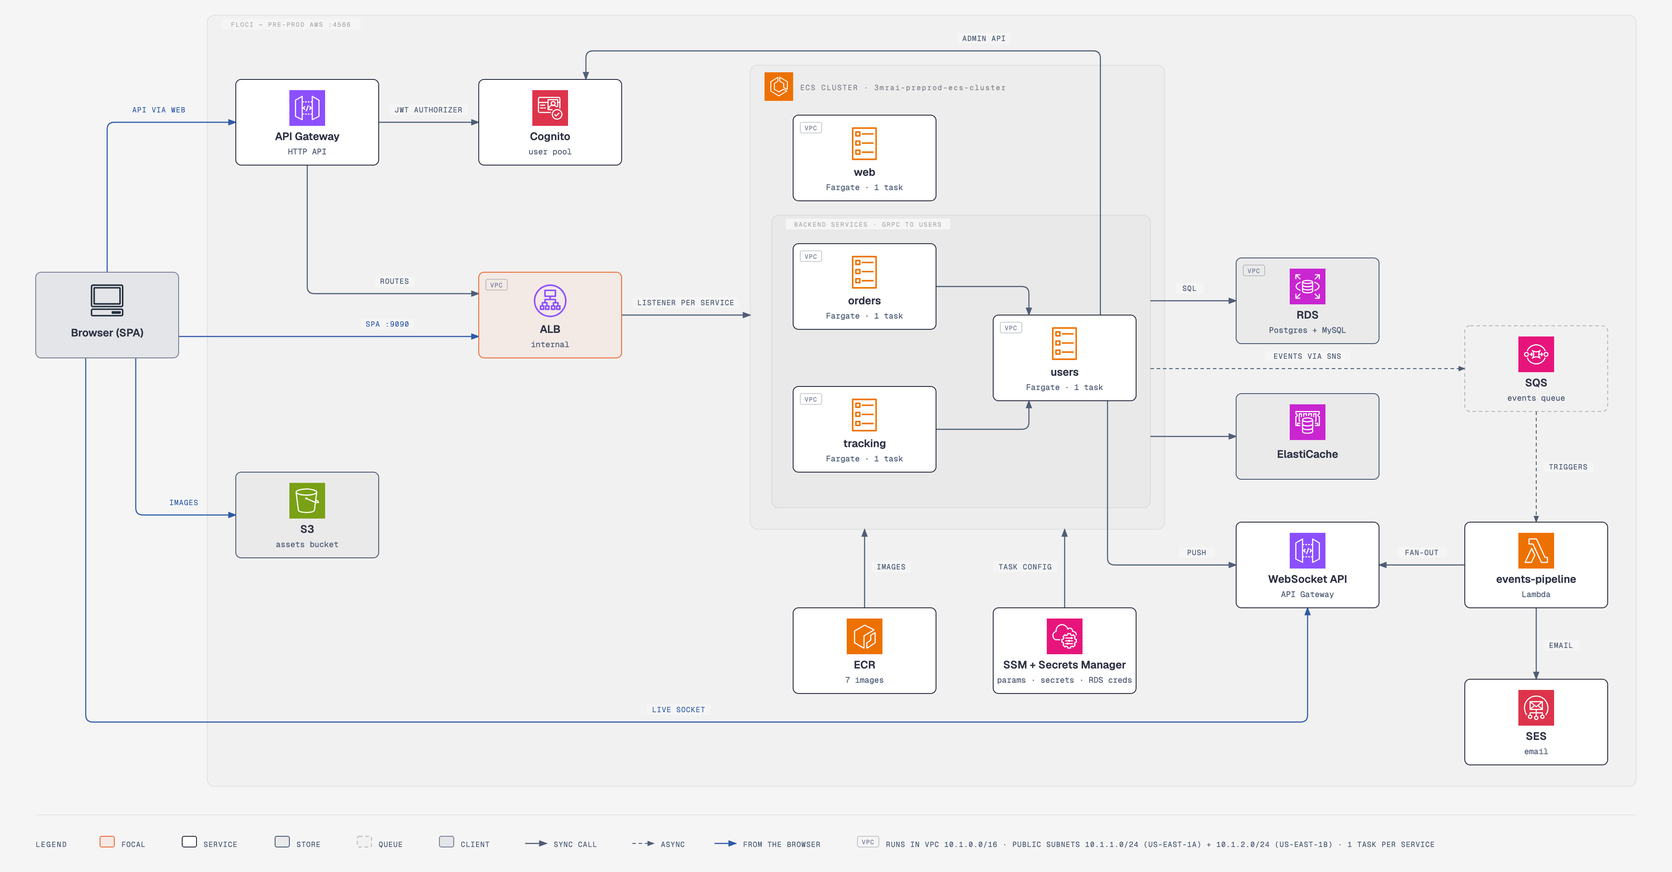
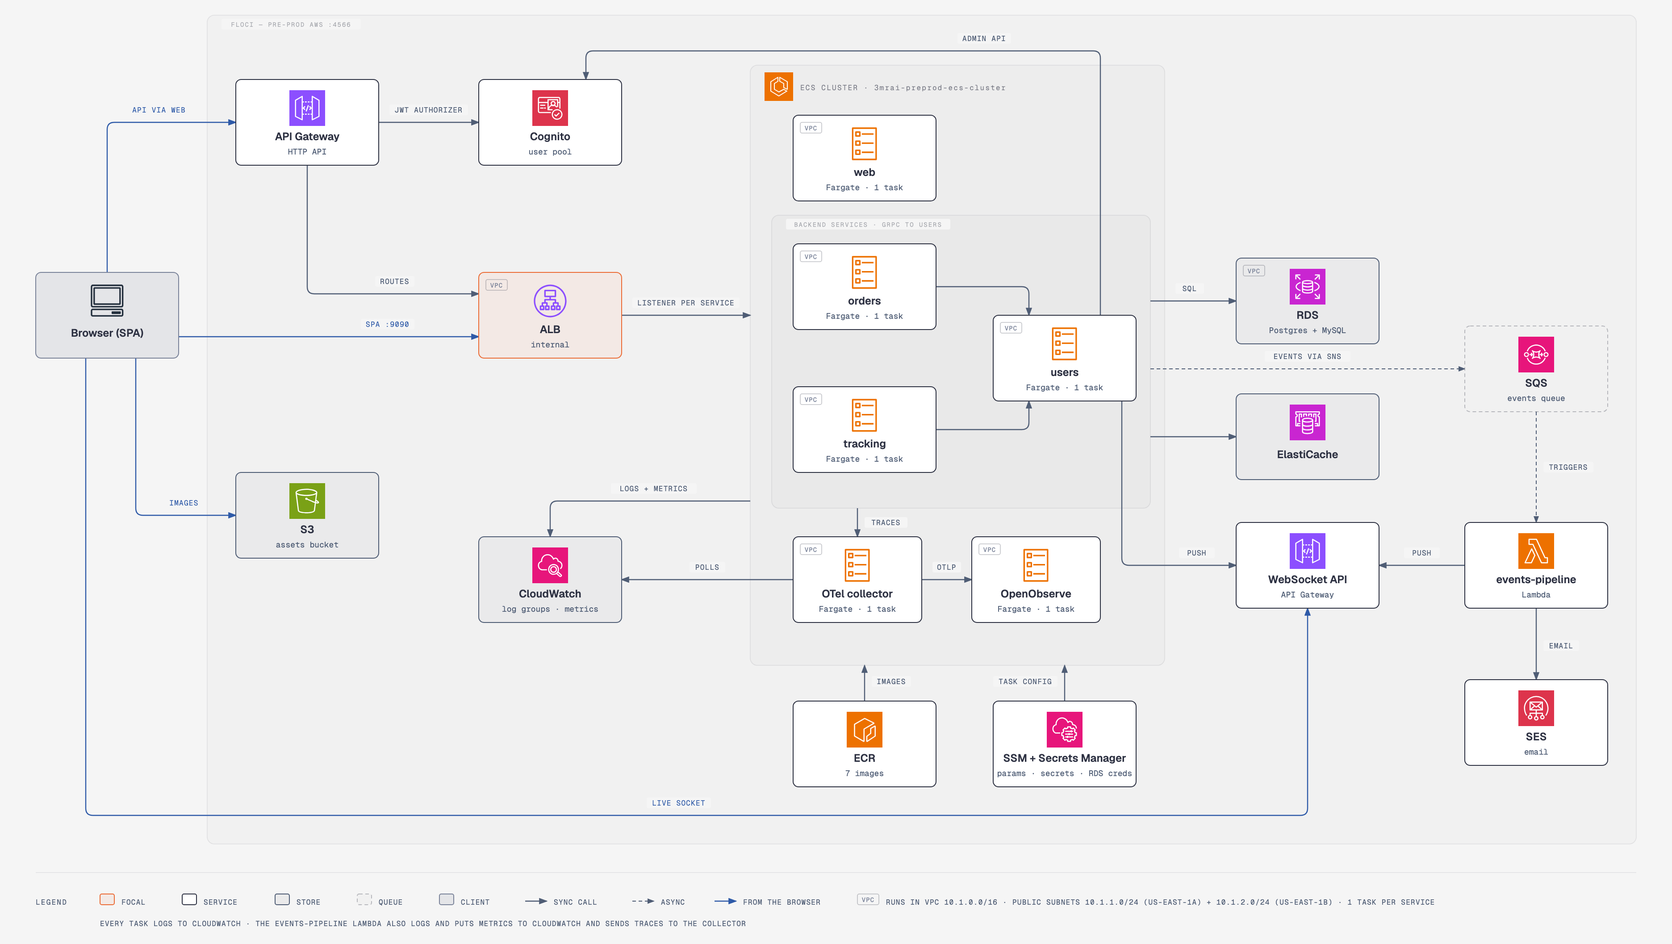
feat(diagrams): add the CloudWatch and OpenObserve telemetry path to the pre-prod view
Show CloudWatch, the OTel collector and OpenObserve on the request-path
view, and label the events-pipeline Lambda's WebSocket edge PUSH in both
pre-prod views.

Spec: docs/superpowers/specs/2026-10-13-diagram-design-migration-design.md

diff --git a/diagrams/src/architecture/architecture-preprod.html b/diagrams/src/architecture/architecture-preprod.html
@@ -65,9 +65,9 @@
     <h1>Pre-prod on Floci — request path</h1>
     <p class="subtitle">One ECS cluster across two AZs: ECS places each Fargate task in either subnet; one ALB listener per service</p>
 
-    <svg viewBox="0 0 1872 976" xmlns="http://www.w3.org/2000/svg" role="img" aria-labelledby="architecture-preprod-title architecture-preprod-desc">
+    <svg viewBox="0 0 1872 1056" xmlns="http://www.w3.org/2000/svg" role="img" aria-labelledby="architecture-preprod-title architecture-preprod-desc">
       <title id="architecture-preprod-title">Pre-prod on Floci — request path</title>
-      <desc id="architecture-preprod-desc">Architecture of the pre-prod environment, where every service runs as an ECS Fargate task on its own Floci: the browser loads the SPA through the ALB and calls API Gateway, which validates JWTs with Cognito and routes to the ALB; the ALB has one listener per ECS service; the orders and tracking tasks call users over gRPC; the backend tasks use RDS and ElastiCache; ECR supplies the images and SSM plus Secrets Manager supply the task config; the browser loads images from the S3 assets bucket and holds a live socket on the API Gateway WebSocket API; the backend tasks publish events through the SNS topic to SQS, which triggers the events-pipeline Lambda that sends email through SES; users and the events-pipeline Lambda push frames to the WebSocket API.</desc>
+      <desc id="architecture-preprod-desc">Architecture of the pre-prod environment, where every service runs as an ECS Fargate task on its own Floci: the browser loads the SPA through the ALB and calls API Gateway, which validates JWTs with Cognito and routes to the ALB; the ALB has one listener per ECS service; the orders and tracking tasks call users over gRPC; the backend tasks use RDS and ElastiCache; ECR supplies the images and SSM plus Secrets Manager supply the task config; the browser loads images from the S3 assets bucket and holds a live socket on the API Gateway WebSocket API; the backend tasks publish events through the SNS topic to SQS, which triggers the events-pipeline Lambda that sends email through SES; users and the events-pipeline Lambda push frames to the WebSocket API; every task ships logs and pushes custom metrics to CloudWatch, the backend tasks send OTLP traces to the OTel collector task, and the collector polls CloudWatch for logs and metrics and exports everything over OTLP to the OpenObserve task.</desc>
       <defs>
         <marker id="arrow" markerWidth="8" markerHeight="6" refX="7" refY="3" orient="auto"><polygon points="0 0, 8 3, 0 6" fill="#4f5d75"/></marker>
         <marker id="arrow-accent" markerWidth="8" markerHeight="6" refX="7" refY="3" orient="auto"><polygon points="0 0, 8 3, 0 6" fill="#eb6c36"/></marker>
@@ -75,10 +75,10 @@
       </defs>
       <rect width="100%" height="100%" fill="#f5f5f5"/>
       <!-- Zones -->
-      <rect x="232" y="16" width="1600" height="864" rx="8" fill="rgba(45,49,66,0.02)" stroke="rgba(45,49,66,0.10)" stroke-width="0.8"/>
+      <rect x="232" y="16" width="1600" height="928" rx="8" fill="rgba(45,49,66,0.02)" stroke="rgba(45,49,66,0.10)" stroke-width="0.8"/>
       <rect x="248" y="20" width="156" height="12" rx="2" fill="#f5f5f5"/>
       <text x="326" y="29" fill="rgba(45,49,66,0.40)" font-size="7" font-family="'Geist Mono', monospace" text-anchor="middle" letter-spacing="0.14em">FLOCI — PRE-PROD AWS :4566</text>
-      <rect x="840" y="72" width="464" height="520" rx="8" fill="rgba(45,49,66,0.02)" stroke="rgba(45,49,66,0.10)" stroke-width="0.8"/>
+      <rect x="840" y="72" width="464" height="672" rx="8" fill="rgba(45,49,66,0.02)" stroke="rgba(45,49,66,0.10)" stroke-width="0.8"/>
       <image href="https://cdn.jsdelivr.net/npm/aws-icons@3.2.0/icons/architecture-service/AmazonElasticContainerService.svg" x="856" y="80" width="32" height="32"/>
       <text x="896" y="100" fill="rgba(45,49,66,0.60)" font-size="8" font-family="'Geist Mono', monospace" letter-spacing="0.14em">ECS CLUSTER · 3mrai-preprod-ecs-cluster</text>
       <rect x="864" y="240" width="424" height="328" rx="8" fill="rgba(45,49,66,0.02)" stroke="rgba(45,49,66,0.10)" stroke-width="0.8"/>
@@ -96,14 +96,18 @@
       <path d="M 1232,352 V 64 Q 1232,56 1224,56 H 664 Q 656,56 656,64 V 88" fill="none" stroke="#4f5d75" stroke-width="1.2" marker-end="url(#arrow)"/>
       <path d="M 1288,336 H 1384" fill="none" stroke="#4f5d75" stroke-width="1.2" marker-end="url(#arrow)"/>
       <path d="M 1288,488 H 1384" fill="none" stroke="#4f5d75" stroke-width="1.2" marker-end="url(#arrow)"/>
-      <path d="M 968,680 V 592" fill="none" stroke="#4f5d75" stroke-width="1.2" marker-end="url(#arrow)"/>
-      <path d="M 1192,680 V 592" fill="none" stroke="#4f5d75" stroke-width="1.2" marker-end="url(#arrow)"/>
-      <path d="M 96,400 V 800 Q 96,808 104,808 H 1456 Q 1464,808 1464,800 V 680" fill="none" stroke="#2e5aa8" stroke-width="1.2" marker-end="url(#arrow-link)"/>
-      <path d="M 1240,448 V 624 Q 1240,632 1248,632 H 1384" fill="none" stroke="#4f5d75" stroke-width="1.2" marker-end="url(#arrow)"/>
+      <path d="M 968,784 V 744" fill="none" stroke="#4f5d75" stroke-width="1.2" marker-end="url(#arrow)"/>
+      <path d="M 1192,784 V 744" fill="none" stroke="#4f5d75" stroke-width="1.2" marker-end="url(#arrow)"/>
+      <path d="M 96,400 V 904 Q 96,912 104,912 H 1456 Q 1464,912 1464,904 V 680" fill="none" stroke="#2e5aa8" stroke-width="1.2" marker-end="url(#arrow-link)"/>
+      <path d="M 1256,448 V 624 Q 1256,632 1264,632 H 1384" fill="none" stroke="#4f5d75" stroke-width="1.2" marker-end="url(#arrow)"/>
       <path d="M 1288,412 H 1640" fill="none" stroke="#4f5d75" stroke-width="1" stroke-dasharray="4,3" marker-end="url(#arrow)"/>
       <path d="M 1720,460 V 584" fill="none" stroke="#4f5d75" stroke-width="1" stroke-dasharray="4,3" marker-end="url(#arrow)"/>
       <path d="M 1640,632 H 1544" fill="none" stroke="#4f5d75" stroke-width="1.2" marker-end="url(#arrow)"/>
       <path d="M 1720,680 V 760" fill="none" stroke="#4f5d75" stroke-width="1.2" marker-end="url(#arrow)"/>
+      <path d="M 840,560 H 624 Q 616,560 616,568 V 600" fill="none" stroke="#4f5d75" stroke-width="1.2" marker-end="url(#arrow)"/>
+      <path d="M 888,648 H 696" fill="none" stroke="#4f5d75" stroke-width="1.2" marker-end="url(#arrow)"/>
+      <path d="M 960,568 V 600" fill="none" stroke="#4f5d75" stroke-width="1.2" marker-end="url(#arrow)"/>
+      <path d="M 1032,648 H 1088" fill="none" stroke="#4f5d75" stroke-width="1.2" marker-end="url(#arrow)"/>
       <!-- Connector labels -->
       <rect x="144" y="116" width="68" height="12" rx="2" fill="#f5f5f5"/>
       <text x="178" y="125" fill="#2e5aa8" font-size="8" font-family="'Geist Mono', monospace" text-anchor="middle" letter-spacing="0.08em">API VIA WEB</text>
@@ -121,22 +125,30 @@
       <text x="1102" y="45" fill="#4f5d75" font-size="8" font-family="'Geist Mono', monospace" text-anchor="middle" letter-spacing="0.08em">ADMIN API</text>
       <rect x="1316" y="316" width="32" height="12" rx="2" fill="#f5f5f5"/>
       <text x="1332" y="325" fill="#4f5d75" font-size="8" font-family="'Geist Mono', monospace" text-anchor="middle" letter-spacing="0.08em">SQL</text>
-      <rect x="976" y="628" width="44" height="12" rx="2" fill="#f5f5f5"/>
-      <text x="998" y="637" fill="#4f5d75" font-size="8" font-family="'Geist Mono', monospace" text-anchor="middle" letter-spacing="0.08em">IMAGES</text>
-      <rect x="1112" y="628" width="72" height="12" rx="2" fill="#f5f5f5"/>
-      <text x="1148" y="637" fill="#4f5d75" font-size="8" font-family="'Geist Mono', monospace" text-anchor="middle" letter-spacing="0.08em">TASK CONFIG</text>
-      <rect x="724" y="788" width="72" height="12" rx="2" fill="#f5f5f5"/>
-      <text x="760" y="797" fill="#2e5aa8" font-size="8" font-family="'Geist Mono', monospace" text-anchor="middle" letter-spacing="0.08em">LIVE SOCKET</text>
+      <rect x="976" y="756" width="44" height="12" rx="2" fill="#f5f5f5"/>
+      <text x="998" y="765" fill="#4f5d75" font-size="8" font-family="'Geist Mono', monospace" text-anchor="middle" letter-spacing="0.08em">IMAGES</text>
+      <rect x="1112" y="756" width="72" height="12" rx="2" fill="#f5f5f5"/>
+      <text x="1148" y="765" fill="#4f5d75" font-size="8" font-family="'Geist Mono', monospace" text-anchor="middle" letter-spacing="0.08em">TASK CONFIG</text>
+      <rect x="724" y="892" width="72" height="12" rx="2" fill="#f5f5f5"/>
+      <text x="760" y="901" fill="#2e5aa8" font-size="8" font-family="'Geist Mono', monospace" text-anchor="middle" letter-spacing="0.08em">LIVE SOCKET</text>
       <rect x="1320" y="612" width="40" height="12" rx="2" fill="#f5f5f5"/>
       <text x="1340" y="621" fill="#4f5d75" font-size="8" font-family="'Geist Mono', monospace" text-anchor="middle" letter-spacing="0.08em">PUSH</text>
       <rect x="1416" y="392" width="96" height="12" rx="2" fill="#f5f5f5"/>
       <text x="1464" y="401" fill="#4f5d75" font-size="8" font-family="'Geist Mono', monospace" text-anchor="middle" letter-spacing="0.08em">EVENTS VIA SNS</text>
       <rect x="1728" y="516" width="56" height="12" rx="2" fill="#f5f5f5"/>
       <text x="1756" y="525" fill="#4f5d75" font-size="8" font-family="'Geist Mono', monospace" text-anchor="middle" letter-spacing="0.08em">TRIGGERS</text>
-      <rect x="1564" y="612" width="56" height="12" rx="2" fill="#f5f5f5"/>
-      <text x="1592" y="621" fill="#4f5d75" font-size="8" font-family="'Geist Mono', monospace" text-anchor="middle" letter-spacing="0.08em">FAN-OUT</text>
+      <rect x="1572" y="612" width="40" height="12" rx="2" fill="#f5f5f5"/>
+      <text x="1592" y="621" fill="#4f5d75" font-size="8" font-family="'Geist Mono', monospace" text-anchor="middle" letter-spacing="0.08em">PUSH</text>
       <rect x="1728" y="716" width="40" height="12" rx="2" fill="#f5f5f5"/>
       <text x="1748" y="725" fill="#4f5d75" font-size="8" font-family="'Geist Mono', monospace" text-anchor="middle" letter-spacing="0.08em">EMAIL</text>
+      <rect x="684" y="540" width="96" height="12" rx="2" fill="#f5f5f5"/>
+      <text x="732" y="549" fill="#4f5d75" font-size="8" font-family="'Geist Mono', monospace" text-anchor="middle" letter-spacing="0.08em">LOGS + METRICS</text>
+      <rect x="772" y="628" width="40" height="12" rx="2" fill="#f5f5f5"/>
+      <text x="792" y="637" fill="#4f5d75" font-size="8" font-family="'Geist Mono', monospace" text-anchor="middle" letter-spacing="0.08em">POLLS</text>
+      <rect x="968" y="578" width="48" height="12" rx="2" fill="#f5f5f5"/>
+      <text x="992" y="587" fill="#4f5d75" font-size="8" font-family="'Geist Mono', monospace" text-anchor="middle" letter-spacing="0.08em">TRACES</text>
+      <rect x="1044" y="628" width="32" height="12" rx="2" fill="#f5f5f5"/>
+      <text x="1060" y="637" fill="#4f5d75" font-size="8" font-family="'Geist Mono', monospace" text-anchor="middle" letter-spacing="0.08em">OTLP</text>
       <!-- Node: Browser (SPA) -->
       <rect x="40" y="304" width="160" height="96" rx="6" fill="#f5f5f5"/>
       <rect x="40" y="304" width="160" height="96" rx="6" fill="rgba(79,93,117,0.10)" stroke="#7a8399" stroke-width="1"/>
@@ -214,17 +226,39 @@
       <image href="https://cdn.jsdelivr.net/npm/aws-icons@3.2.0/icons/architecture-service/AmazonElastiCache.svg" x="1444" y="452" width="40" height="40"/>
       <text x="1464" y="512" fill="#2d3142" font-size="12" font-weight="600" font-family="'Geist', sans-serif" text-anchor="middle">ElastiCache</text>
       <!-- Node: ECR -->
-      <rect x="888" y="680" width="160" height="96" rx="6" fill="#f5f5f5"/>
-      <rect x="888" y="680" width="160" height="96" rx="6" fill="#ffffff" stroke="#2d3142" stroke-width="1"/>
-      <image href="https://cdn.jsdelivr.net/npm/aws-icons@3.2.0/icons/architecture-service/AmazonElasticContainerRegistry.svg" x="948" y="692" width="40" height="40"/>
-      <text x="968" y="748" fill="#2d3142" font-size="12" font-weight="600" font-family="'Geist', sans-serif" text-anchor="middle">ECR</text>
-      <text x="968" y="764" fill="#4f5d75" font-size="9" font-family="'Geist Mono', monospace" text-anchor="middle">7 images</text>
+      <rect x="888" y="784" width="160" height="96" rx="6" fill="#f5f5f5"/>
+      <rect x="888" y="784" width="160" height="96" rx="6" fill="#ffffff" stroke="#2d3142" stroke-width="1"/>
+      <image href="https://cdn.jsdelivr.net/npm/aws-icons@3.2.0/icons/architecture-service/AmazonElasticContainerRegistry.svg" x="948" y="796" width="40" height="40"/>
+      <text x="968" y="852" fill="#2d3142" font-size="12" font-weight="600" font-family="'Geist', sans-serif" text-anchor="middle">ECR</text>
+      <text x="968" y="868" fill="#4f5d75" font-size="9" font-family="'Geist Mono', monospace" text-anchor="middle">7 images</text>
       <!-- Node: SSM + Secrets Manager -->
-      <rect x="1112" y="680" width="160" height="96" rx="6" fill="#f5f5f5"/>
-      <rect x="1112" y="680" width="160" height="96" rx="6" fill="#ffffff" stroke="#2d3142" stroke-width="1"/>
-      <image href="https://cdn.jsdelivr.net/npm/aws-icons@3.2.0/icons/architecture-service/AWSSystemsManager.svg" x="1172" y="692" width="40" height="40"/>
-      <text x="1192" y="748" fill="#2d3142" font-size="12" font-weight="600" font-family="'Geist', sans-serif" text-anchor="middle">SSM + Secrets Manager</text>
-      <text x="1192" y="764" fill="#4f5d75" font-size="9" font-family="'Geist Mono', monospace" text-anchor="middle">params · secrets · RDS creds</text>
+      <rect x="1112" y="784" width="160" height="96" rx="6" fill="#f5f5f5"/>
+      <rect x="1112" y="784" width="160" height="96" rx="6" fill="#ffffff" stroke="#2d3142" stroke-width="1"/>
+      <image href="https://cdn.jsdelivr.net/npm/aws-icons@3.2.0/icons/architecture-service/AWSSystemsManager.svg" x="1172" y="796" width="40" height="40"/>
+      <text x="1192" y="852" fill="#2d3142" font-size="12" font-weight="600" font-family="'Geist', sans-serif" text-anchor="middle">SSM + Secrets Manager</text>
+      <text x="1192" y="868" fill="#4f5d75" font-size="9" font-family="'Geist Mono', monospace" text-anchor="middle">params · secrets · RDS creds</text>
+      <!-- Node: CloudWatch -->
+      <rect x="536" y="600" width="160" height="96" rx="6" fill="#f5f5f5"/>
+      <rect x="536" y="600" width="160" height="96" rx="6" fill="rgba(45,49,66,0.05)" stroke="#4f5d75" stroke-width="1"/>
+      <image href="https://cdn.jsdelivr.net/npm/aws-icons@3.2.0/icons/architecture-service/AmazonCloudWatch.svg" x="596" y="612" width="40" height="40"/>
+      <text x="616" y="668" fill="#2d3142" font-size="12" font-weight="600" font-family="'Geist', sans-serif" text-anchor="middle">CloudWatch</text>
+      <text x="616" y="684" fill="#4f5d75" font-size="9" font-family="'Geist Mono', monospace" text-anchor="middle">log groups · metrics</text>
+      <!-- Node: OTel collector -->
+      <rect x="888" y="600" width="144" height="96" rx="6" fill="#f5f5f5"/>
+      <rect x="888" y="600" width="144" height="96" rx="6" fill="#ffffff" stroke="#2d3142" stroke-width="1"/>
+      <rect x="896" y="608" width="24" height="12" rx="2" fill="transparent" stroke="rgba(45,49,66,0.30)" stroke-width="0.8"/>
+      <text x="908" y="617" fill="#7a8399" font-size="7" font-family="'Geist Mono', monospace" text-anchor="middle" letter-spacing="0.08em">VPC</text>
+      <image href="https://cdn.jsdelivr.net/npm/aws-icons@3.2.0/icons/resource/AmazonElasticContainerServiceTask.svg" x="940" y="612" width="40" height="40"/>
+      <text x="960" y="668" fill="#2d3142" font-size="12" font-weight="600" font-family="'Geist', sans-serif" text-anchor="middle">OTel collector</text>
+      <text x="960" y="684" fill="#4f5d75" font-size="9" font-family="'Geist Mono', monospace" text-anchor="middle">Fargate · 1 task</text>
+      <!-- Node: OpenObserve -->
+      <rect x="1088" y="600" width="144" height="96" rx="6" fill="#f5f5f5"/>
+      <rect x="1088" y="600" width="144" height="96" rx="6" fill="#ffffff" stroke="#2d3142" stroke-width="1"/>
+      <rect x="1096" y="608" width="24" height="12" rx="2" fill="transparent" stroke="rgba(45,49,66,0.30)" stroke-width="0.8"/>
+      <text x="1108" y="617" fill="#7a8399" font-size="7" font-family="'Geist Mono', monospace" text-anchor="middle" letter-spacing="0.08em">VPC</text>
+      <image href="https://cdn.jsdelivr.net/npm/aws-icons@3.2.0/icons/resource/AmazonElasticContainerServiceTask.svg" x="1140" y="612" width="40" height="40"/>
+      <text x="1160" y="668" fill="#2d3142" font-size="12" font-weight="600" font-family="'Geist', sans-serif" text-anchor="middle">OpenObserve</text>
+      <text x="1160" y="684" fill="#4f5d75" font-size="9" font-family="'Geist Mono', monospace" text-anchor="middle">Fargate · 1 task</text>
       <!-- Node: WebSocket API -->
       <rect x="1384" y="584" width="160" height="96" rx="6" fill="#f5f5f5"/>
       <rect x="1384" y="584" width="160" height="96" rx="6" fill="#ffffff" stroke="#2d3142" stroke-width="1"/>
@@ -250,27 +284,28 @@
       <text x="1720" y="828" fill="#2d3142" font-size="12" font-weight="600" font-family="'Geist', sans-serif" text-anchor="middle">SES</text>
       <text x="1720" y="844" fill="#4f5d75" font-size="9" font-family="'Geist Mono', monospace" text-anchor="middle">email</text>
       <!-- Legend -->
-      <line x1="40" y1="912" x2="1832" y2="912" stroke="rgba(45,49,66,0.10)" stroke-width="0.8"/>
-      <text x="40" y="948" fill="#4f5d75" font-size="8" font-family="'Geist Mono', monospace" letter-spacing="0.14em">LEGEND</text>
-      <rect x="112" y="936" width="16" height="12" rx="2" fill="rgba(235,108,54,0.08)" stroke="#eb6c36" stroke-width="1"/>
-      <text x="136" y="948" fill="#4f5d75" font-size="8" font-family="'Geist Mono', monospace" letter-spacing="0.08em">FOCAL</text>
-      <rect x="204" y="936" width="16" height="12" rx="2" fill="#ffffff" stroke="#2d3142" stroke-width="1"/>
-      <text x="228" y="948" fill="#4f5d75" font-size="8" font-family="'Geist Mono', monospace" letter-spacing="0.08em">SERVICE</text>
-      <rect x="308" y="936" width="16" height="12" rx="2" fill="rgba(45,49,66,0.05)" stroke="#4f5d75" stroke-width="1"/>
-      <text x="332" y="948" fill="#4f5d75" font-size="8" font-family="'Geist Mono', monospace" letter-spacing="0.08em">STORE</text>
-      <rect x="400" y="936" width="16" height="12" rx="2" fill="rgba(45,49,66,0.02)" stroke="rgba(45,49,66,0.30)" stroke-width="1" stroke-dasharray="4,3"/>
-      <text x="424" y="948" fill="#4f5d75" font-size="8" font-family="'Geist Mono', monospace" letter-spacing="0.08em">QUEUE</text>
-      <rect x="492" y="936" width="16" height="12" rx="2" fill="rgba(79,93,117,0.10)" stroke="#7a8399" stroke-width="1"/>
-      <text x="516" y="948" fill="#4f5d75" font-size="8" font-family="'Geist Mono', monospace" letter-spacing="0.08em">CLIENT</text>
-      <line x1="588" y1="944" x2="612" y2="944" stroke="#4f5d75" stroke-width="1.2" marker-end="url(#arrow)"/>
-      <text x="620" y="948" fill="#4f5d75" font-size="8" font-family="'Geist Mono', monospace" letter-spacing="0.08em">SYNC CALL</text>
-      <line x1="708" y1="944" x2="732" y2="944" stroke="#4f5d75" stroke-width="1" stroke-dasharray="4,3" marker-end="url(#arrow)"/>
-      <text x="740" y="948" fill="#4f5d75" font-size="8" font-family="'Geist Mono', monospace" letter-spacing="0.08em">ASYNC</text>
-      <line x1="800" y1="944" x2="824" y2="944" stroke="#2e5aa8" stroke-width="1.2" marker-end="url(#arrow-link)"/>
-      <text x="832" y="948" fill="#4f5d75" font-size="8" font-family="'Geist Mono', monospace" letter-spacing="0.08em">FROM THE BROWSER</text>
-      <rect x="960" y="936" width="24" height="12" rx="2" fill="transparent" stroke="rgba(45,49,66,0.30)" stroke-width="0.8"/>
-      <text x="972" y="945" fill="#7a8399" font-size="7" font-family="'Geist Mono', monospace" text-anchor="middle" letter-spacing="0.08em">VPC</text>
-      <text x="992" y="948" fill="#4f5d75" font-size="8" font-family="'Geist Mono', monospace" letter-spacing="0.08em">RUNS IN VPC 10.1.0.0/16 · PUBLIC SUBNETS 10.1.1.0/24 (US-EAST-1A) + 10.1.2.0/24 (US-EAST-1B) · 1 TASK PER SERVICE</text>
+      <line x1="40" y1="976" x2="1832" y2="976" stroke="rgba(45,49,66,0.10)" stroke-width="0.8"/>
+      <text x="40" y="1012" fill="#4f5d75" font-size="8" font-family="'Geist Mono', monospace" letter-spacing="0.14em">LEGEND</text>
+      <rect x="112" y="1000" width="16" height="12" rx="2" fill="rgba(235,108,54,0.08)" stroke="#eb6c36" stroke-width="1"/>
+      <text x="136" y="1012" fill="#4f5d75" font-size="8" font-family="'Geist Mono', monospace" letter-spacing="0.08em">FOCAL</text>
+      <rect x="204" y="1000" width="16" height="12" rx="2" fill="#ffffff" stroke="#2d3142" stroke-width="1"/>
+      <text x="228" y="1012" fill="#4f5d75" font-size="8" font-family="'Geist Mono', monospace" letter-spacing="0.08em">SERVICE</text>
+      <rect x="308" y="1000" width="16" height="12" rx="2" fill="rgba(45,49,66,0.05)" stroke="#4f5d75" stroke-width="1"/>
+      <text x="332" y="1012" fill="#4f5d75" font-size="8" font-family="'Geist Mono', monospace" letter-spacing="0.08em">STORE</text>
+      <rect x="400" y="1000" width="16" height="12" rx="2" fill="rgba(45,49,66,0.02)" stroke="rgba(45,49,66,0.30)" stroke-width="1" stroke-dasharray="4,3"/>
+      <text x="424" y="1012" fill="#4f5d75" font-size="8" font-family="'Geist Mono', monospace" letter-spacing="0.08em">QUEUE</text>
+      <rect x="492" y="1000" width="16" height="12" rx="2" fill="rgba(79,93,117,0.10)" stroke="#7a8399" stroke-width="1"/>
+      <text x="516" y="1012" fill="#4f5d75" font-size="8" font-family="'Geist Mono', monospace" letter-spacing="0.08em">CLIENT</text>
+      <line x1="588" y1="1008" x2="612" y2="1008" stroke="#4f5d75" stroke-width="1.2" marker-end="url(#arrow)"/>
+      <text x="620" y="1012" fill="#4f5d75" font-size="8" font-family="'Geist Mono', monospace" letter-spacing="0.08em">SYNC CALL</text>
+      <line x1="708" y1="1008" x2="732" y2="1008" stroke="#4f5d75" stroke-width="1" stroke-dasharray="4,3" marker-end="url(#arrow)"/>
+      <text x="740" y="1012" fill="#4f5d75" font-size="8" font-family="'Geist Mono', monospace" letter-spacing="0.08em">ASYNC</text>
+      <line x1="800" y1="1008" x2="824" y2="1008" stroke="#2e5aa8" stroke-width="1.2" marker-end="url(#arrow-link)"/>
+      <text x="832" y="1012" fill="#4f5d75" font-size="8" font-family="'Geist Mono', monospace" letter-spacing="0.08em">FROM THE BROWSER</text>
+      <rect x="960" y="1000" width="24" height="12" rx="2" fill="transparent" stroke="rgba(45,49,66,0.30)" stroke-width="0.8"/>
+      <text x="972" y="1009" fill="#7a8399" font-size="7" font-family="'Geist Mono', monospace" text-anchor="middle" letter-spacing="0.08em">VPC</text>
+      <text x="992" y="1012" fill="#4f5d75" font-size="8" font-family="'Geist Mono', monospace" letter-spacing="0.08em">RUNS IN VPC 10.1.0.0/16 · PUBLIC SUBNETS 10.1.1.0/24 (US-EAST-1A) + 10.1.2.0/24 (US-EAST-1B) · 1 TASK PER SERVICE</text>
+      <text x="112" y="1036" fill="#4f5d75" font-size="8" font-family="'Geist Mono', monospace" letter-spacing="0.08em">EVERY TASK LOGS TO CLOUDWATCH · THE EVENTS-PIPELINE LAMBDA ALSO LOGS AND PUTS METRICS TO CLOUDWATCH AND SENDS TRACES TO THE COLLECTOR</text>
     </svg>
   </div>
 </body>

diff --git a/diagrams/src/architecture/architecture-preprod-events.html b/diagrams/src/architecture/architecture-preprod-events.html
@@ -136,8 +136,8 @@
       <text x="1288" y="257" fill="#4f5d75" font-size="8" font-family="'Geist Mono', monospace" text-anchor="middle" letter-spacing="0.08em">LOGS + METRICS</text>
       <rect x="1378" y="324" width="28" height="12" rx="2" fill="#f5f5f5"/>
       <text x="1392" y="333" fill="#4f5d75" font-size="8" font-family="'Geist Mono', monospace" text-anchor="middle" letter-spacing="0.08em">SMTP</text>
-      <rect x="1024" y="600" width="52" height="12" rx="2" fill="#f5f5f5"/>
-      <text x="1050" y="609" fill="#4f5d75" font-size="8" font-family="'Geist Mono', monospace" text-anchor="middle" letter-spacing="0.08em">FAN-OUT</text>
+      <rect x="1024" y="600" width="36" height="12" rx="2" fill="#f5f5f5"/>
+      <text x="1042" y="609" fill="#4f5d75" font-size="8" font-family="'Geist Mono', monospace" text-anchor="middle" letter-spacing="0.08em">PUSH</text>
       <rect x="1378" y="556" width="44" height="12" rx="2" fill="#f5f5f5"/>
       <text x="1400" y="565" fill="#4f5d75" font-size="8" font-family="'Geist Mono', monospace" text-anchor="middle" letter-spacing="0.08em">TRACES</text>
       <rect x="1596" y="148" width="120" height="12" rx="2" fill="#f5f5f5"/>
